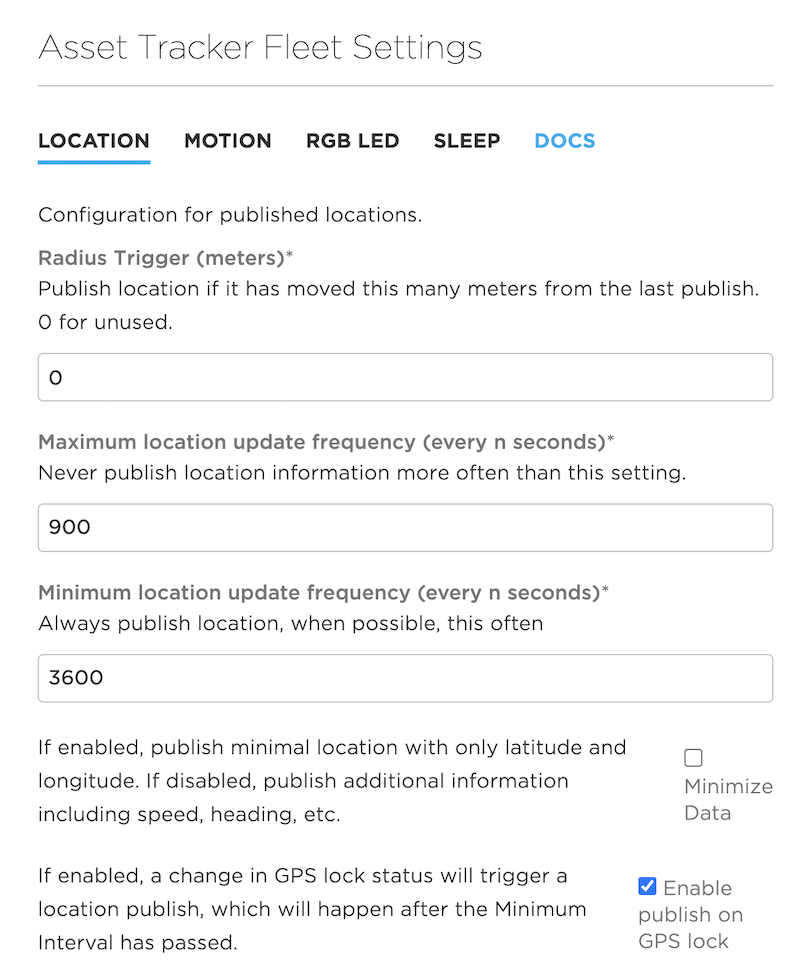
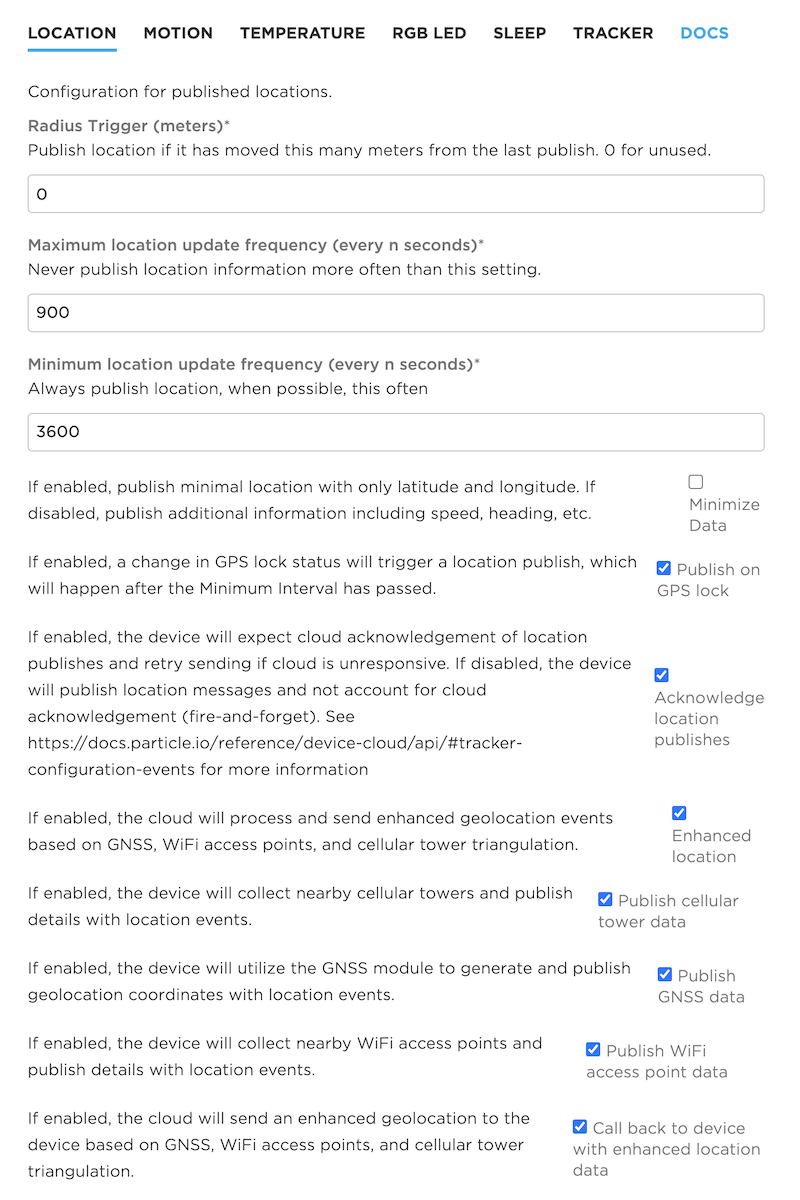
Location Fusion
- First checkpoint of changes, not complete yet

diff --git a/src/content/reference/device-cloud/api.md b/src/content/reference/device-cloud/api.md
@@ -457,6 +457,10 @@ Horizontal accuracy, in meters, of geographic latitude and longitude coordinates
 
 Vertical accuracy, in meters, of geographic altitude coordinates.
 
+#### loc.spd
+
+Speed, in meters per second, of perceived GNSS movement. Added in Tracker Edge v12.
+
 #### loc.batt
 
 Battery level, in percentage (0-100.0) when available and valid.  This field will be omitted when no battery is connected.
@@ -469,6 +473,50 @@ Cellular signal strength/quality, in percentage (0-100.0).
 
 Device temperature, in degrees Celsius, if available.
 
+#### towers.str
+
+Serving and neighboring cell tower signal strength (RSSI in dBm). Added in Tracker Edge v12.
+
+#### towers.rat
+
+Radio Access Technology, for example, "lte". Added in Tracker Edge v12.
+
+#### towers.mcc
+
+Mobile Country Code (0 - 999). Added in Tracker Edge v12.
+
+#### towers.mnc
+
+Mobile Network Code (0 - 999). This is the operator or carrier within the country. Added in Tracker Edge v12.
+
+#### towers.lac
+
+Location Area Code (0 - 65535). Added in Tracker Edge v12.
+
+#### towers.cid
+
+Cell Identifier (0 - 268435455). Added in Tracker Edge v12.
+
+#### towers.nid
+
+Neighboring tower Physical Cell ID (0 - 2147483647). Added in Tracker Edge v12.
+
+#### towers.ch
+
+Frequency channel number (0 - 2147483647). Added in Tracker Edge v12.
+
+#### wps.bssid
+
+MAC address (BSSID) for the base station (access point). Added in Tracker Edge v12.
+
+#### wps.str
+
+Signal strength (RSSI in dBm). Added in Tracker Edge v12.
+
+#### wps.ch
+
+Wi-Fi channel number. Added in Tracker Edge v12.
+
 #### trig
 
 Reason for point location publish message, an array of causes enumeration strings:
@@ -477,12 +525,32 @@ Reason for point location publish message, an array of causes enumeration string
 - `radius` movement-based (`radius`)
 - `imu_m` IMU wake on motion
 - `imu_g` IMU wake on high-G acceleration (4g for at least 2.5ms.)
+- `temp_h` High temperature wake
+- `temp_l` Low temperature wake
+- `user` User-triggered publish
+- `batt_warn` Low battery warning
+- `batt_low` Low battery
 
 The JSON schema for location events will be released soon.
 
 #### req_id
 
 The request identifier, used to make sure the event was received.
+
+### Enhanced Location Events 
+
+The `enhanced_loc` event includes Location Fusion information, enhanced geolocation using Wi-Fi and/or cellular tower information. This can occur indoors, and in "urban canyons" where view of the GNSS satellites is obstructed.
+
+Enhanced_loc events are generated by the Particle cloud, one for every loc event sent by the Tracker, with any additional location information added. The enhanced location can be monitored using webhooks or server-sent-events. Optionally, these events can also be sent to devices, to allow the device to act on the enhanced location information. See [location configuration](/tutorials/device-cloud/console/#location-settings).
+
+The enhanced_loc event will have data the same as the original loc event, such as: cmd, time, loc.lck, loc.cell, loc.bat, loc.temp, loc.time, loc.lat, loc.lon, loc.h_acc, and trig. 
+
+Note that loc.alt (altitude), loc.v_acc (vertical accuracy), loc.hd (heading), and loc.spd (speed) are not available for locations derived from location fusion, but if that information was in the original loc event from the GNSS, it will be preserved in the enhanced_loc event.
+
+#### loc.src
+
+The sources used for enhanced geolocation, an array. Can be "cell" or "wifi" or both. Added in Tracker Edge v12.
+
 
 ### Tracker Configuration Events
 

diff --git a/src/content/reference/asset-tracking/tracker-edge-firmware.md b/src/content/reference/asset-tracking/tracker-edge-firmware.md
@@ -335,6 +335,9 @@ void locationGenerationCallback(JSONWriter &writer,
 }
 ```
 
+Note: Tracker Edge v12 and later have built-in support for speed in the "spd" field of the location publish so you no longer need to add code to view the speed as detected by the GNSS.
+
+
 Registers a function or method to be called to add custom data to a location publish.
 
 ### regLocPubCallback - TrackerLocation
@@ -355,8 +358,6 @@ int regLocPubCallback(
 
 Registers a function to be called back after the next location publish attempt with success or failure indication.
 
-
-
 ---
 
 ```cpp
@@ -366,6 +367,21 @@ enum CloudServiceStatus {
     TIMEOUT, // waiting for application response, etc
 };
 ```
+
+### regEnhancedLocCallback - TrackerLocation
+
+```cpp
+void enhancedCb(const LocationPoint& point, const void* context) {
+    Log.info("Enhanced location callback");
+}
+
+void setup() {
+    Tracker::instance().init();
+    TrackerLocation::instance().regEnhancedLocCallback(enhancedCb);
+}
+```
+
+Registers a function to be called back with enhanced location information. If enabled in the [location configuration](/tutorials/device-cloud/console/#location-settings), location fusion, Wi-Fi and cellular tower information can be used to get an approximate location when GNSS is not available. This information is generated by the Particle cloud, but it is also possible to receive the enhanced location update on-device using regEnhancedLocCallback.
 
 
 ## LocationService
@@ -386,6 +402,8 @@ int getLocation(LocationPoint& point);
 // DEFINTION
 struct LocationPoint {
     int locked;
+    unsigned int lockedDuration;
+    bool stable;
     time_t epochTime;
     LocationTimescale timeScale;
     float latitude;
@@ -401,6 +419,8 @@ struct LocationPoint {
 | Type | Field | Description |
 | :--- | :--- | :--- |
 | `int` | `locked` | Indication of GNSS locked status (1=lock/fix obtained) |
+| `unsigned int` | `lockedDuration` | Duration of the current GNSS lock (if applicable) | 
+| `bool` | `stable` | Indication if GNNS lock is stable (if applicable) |
 | `time_t` | `epochTime` | Epoch time from device sources | 
 | `LocationTimescale` | `timeScale` | Epoch timescale |
 | `float` | `latitude` | Point latitude in degrees |
@@ -410,6 +430,8 @@ struct LocationPoint {
 | `float` | `heading` | Point heading in degrees |
 | `float` | `horizontalAccuracy` | Point horizontal accuracy in meters |
 | `float` | `verticalAccuracy` | Point vertical accuracy in meters |
+
+
 
 
 ### LocationTimescale - LocationService 

diff --git a/src/content/tutorials/device-cloud/console.md b/src/content/tutorials/device-cloud/console.md
@@ -719,6 +719,23 @@ In some cases, you will want to set the maximum and minimum to the same value. T
 | 24 hours | 86400 |
 
 
+- **Minimize Data**. If checked, only only latitude and longitude data is sent on each location publish. If unchecked (the default), additional information such as speed and heading are sent.
+
+- **Publish on GPS lock**. If checked, publish location when GNSS lock is obtained, even if the device has not reached the radius trigger or maximum location update frequency yet. The minimum location update frequency is still obeyed.
+
+- **Acknowledge location publishes**. If checked, the device will expect cloud acknowledgement of location publishes and retry failed transmissions. If unchecked, one attempt will be made to send, which may or may not succeed. If you are publishing frequently, it may be preferable to lose some points, rather than record delayed information.
+
+- **Enhanced location**. If checked, the Particle cloud will process location fusion, enhanced geolocation using Wi-Fi access points and cellular tower information.
+
+- **Publish cellular tower data**. If checked, the Tracker will include information about nearby cellular towers with location events.
+
+- **Publish GNSS data**. If checked, the Tracker will use the GNSS (GPS) module for geolocation.
+
+- **Publish Wi-Fi access point data**. If checked, the Tracker will include nearby Wi-Fi access points in location publishes. The Wi-Fi access points are not connected to; most Wi-Fi access points periodically broadcast their presence to allow Wi-Fi devices to find them. This public information is used by the Wi-Fi geolocation service.
+
+- **Callback to device with enhanced location data**. If checked, the Particle cloud will send back enhanced geolocation data obtained from Wi-Fi or cellular tower information back to the device. This is useful if your device firmware wants to process this information on device. If you're only tracking location from the cloud, it's not necessary to enable this option.
+
+
 #### Motion Settings
 
 ![Motion Settings](/assets/images/tracker/settings-2.png)

diff --git a/src/content/tutorials/asset-tracking/location-fusion.md b/src/content/tutorials/asset-tracking/location-fusion.md
@@ -1,0 +1,26 @@
+---
+title: Location Fusion
+columns: two
+layout: tutorials.hbs
+order: 33
+description: Particle Tracker Wi-Fi and Cellular Geolocation
+---
+
+# Location Fusion
+
+The Particle Tracker provides three methods of geolocation:
+
+- GNSS (GPS) is the primary method of geolocation, and uses a set of satellites to accurately obtain position and elevation information, up to 1.8 meter precision.
+- Wi-Fi geolocation uses nearby Wi-Fi access points to determine location. This is especially helpful indoors and outdoors in "urban canyons" in downtown areas where building block views of the GNSS satellites, but there are many nearby Wi-Fi networks.
+- Cell tower location uses a database of cellular tower identifiers to locate the tower you are connected to. This has the lowest resolution, and can be as inaccurate as 
+
+The last two are used in the location fusion feature, new in Device OS 3.0 and Tracker Edge v12. A geolocation service is used by the Particle cloud to provide these additional location services when the GNSS does not have a good location available. The geolocation service is included with your Tracker, and you only need to have it enabled to use it; there is no additional charge and no need to sign up for additional services.
+
+Wi-Fi geolocation does not connect to the Wi-Fi access points. Most access points are configured to periodically broadcast their presence to make it easy for Wi-Fi devices to connect. This public broadcast is used in combination with the geolocation service to provide an approximate location. Not all Wi-Fi access points are in the database.
+
+- The settings are in the [location tab](/tutorials/device-cloud/console/#location-settings) of the fleet settings or device settings.
+
+- Enhanced location events are described in the [asset tracking events references](/reference/device-cloud/api/#enhanced-location-events).
+
+- Handing enhanced location events from device firmware is in the [Tracker Edge reference](/reference/asset-tracking/tracker-edge-firmware/#regenhancedloccallback-trackerlocation).
+

diff --git a/src/content/tutorials/asset-tracking/tracker-sleep.md b/src/content/tutorials/asset-tracking/tracker-sleep.md
@@ -72,6 +72,9 @@ In some cases, you will want to set the maximum and minimum to the same value. T
 | 8 hours | 28800 |
 | 24 hours | 86400 |
 
+- **Minimize Data**. If checked, only only latitude and longitude data is sent on each location publish. If unchecked (the default), additional information such as speed and heading are sent.
+
+The other settings are described in [cloud configuration](/tutorials/device-cloud/console/#location-settings).
 
 #### Motion Settings
 
